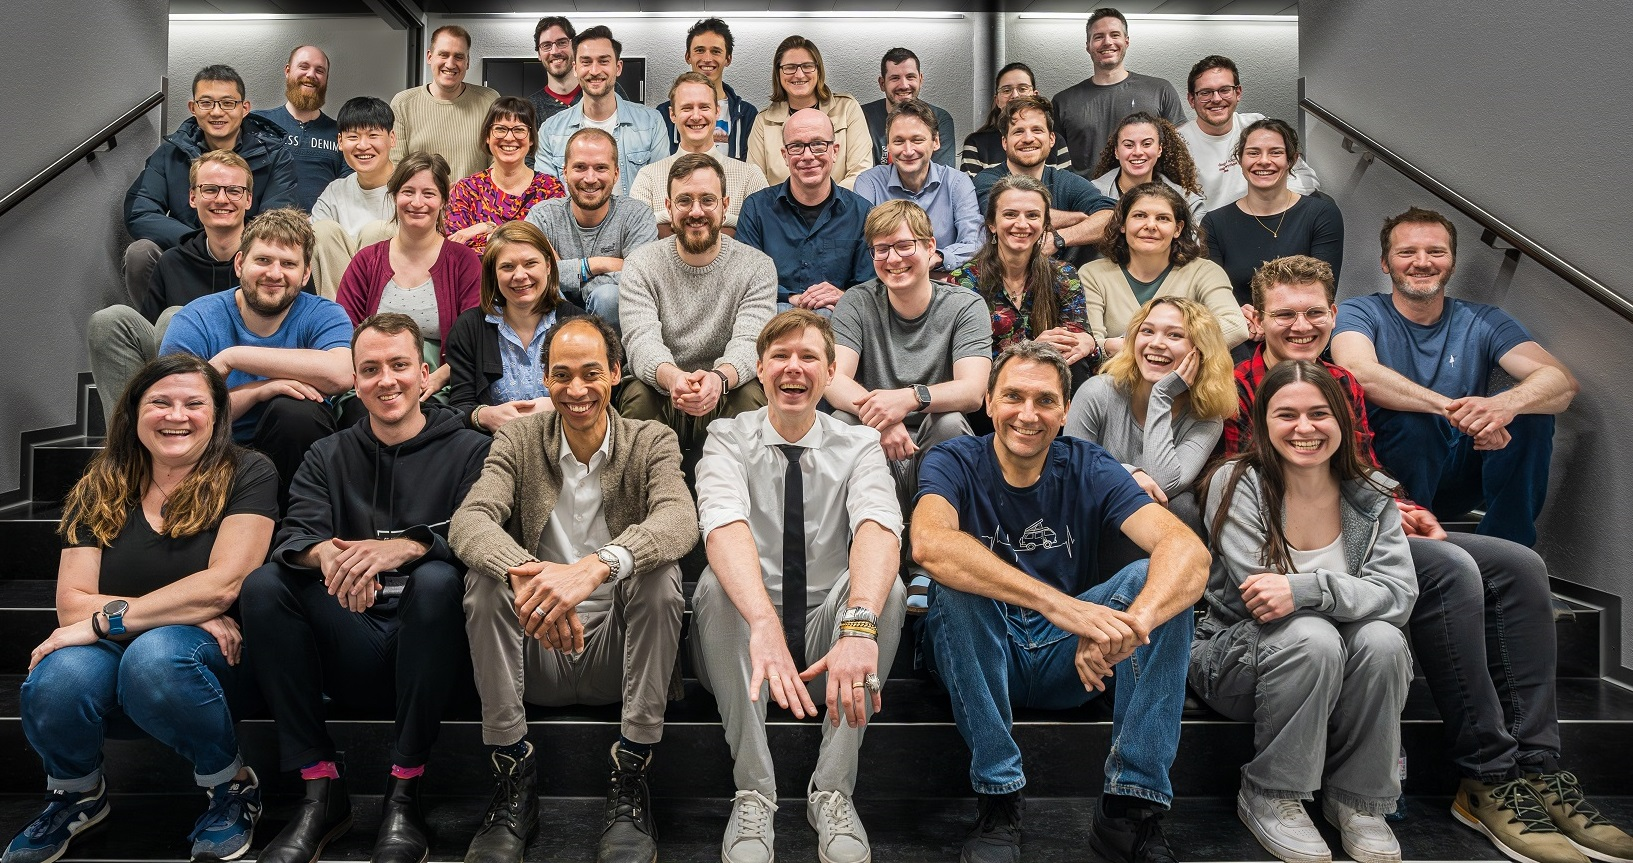
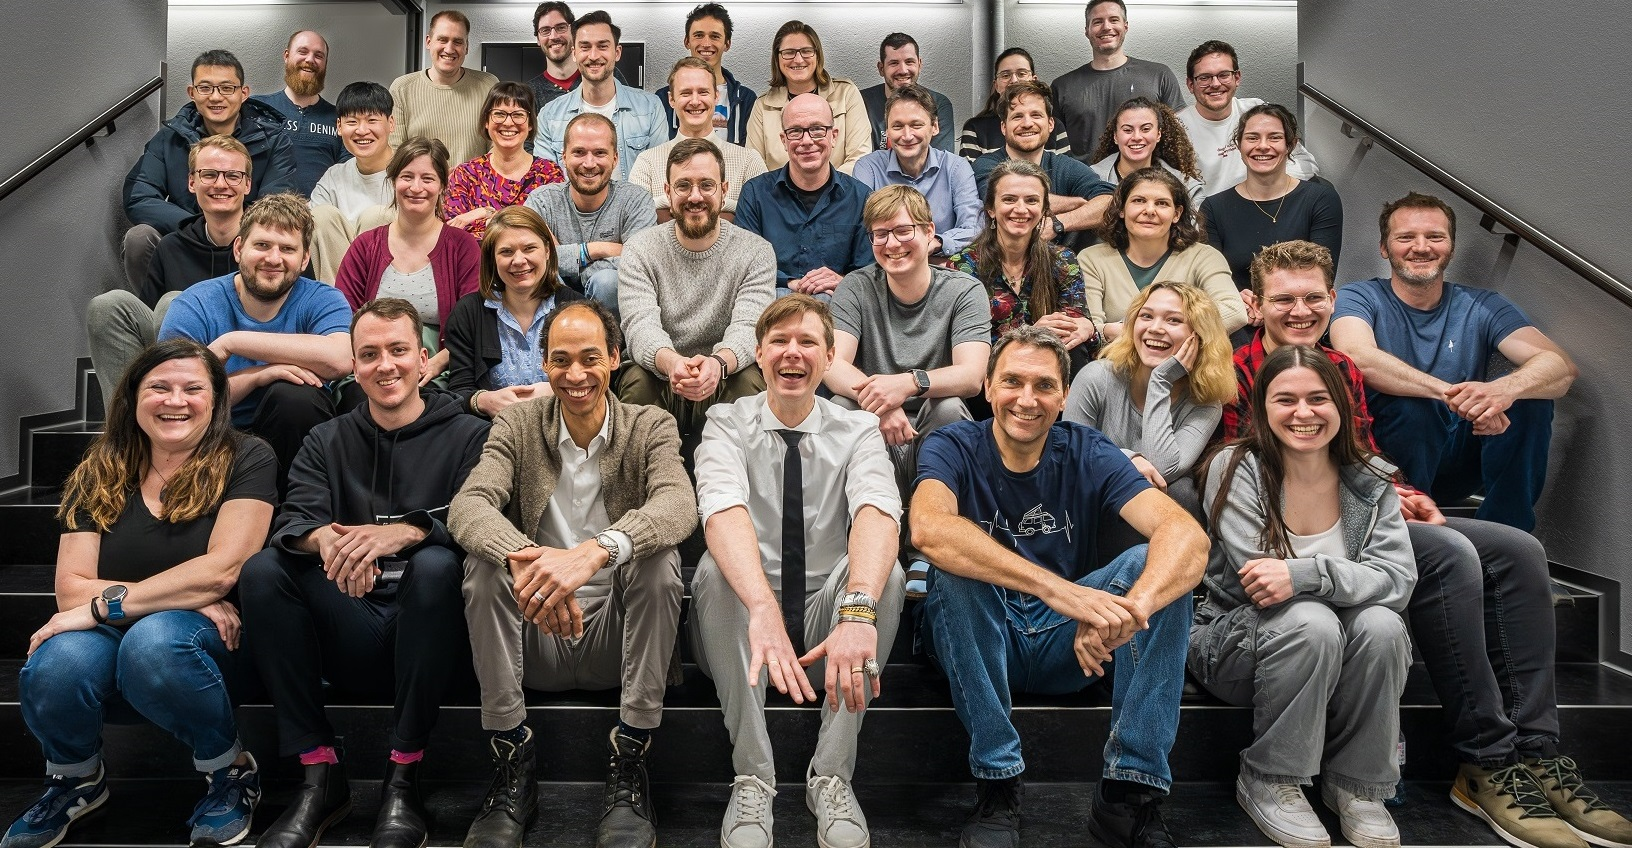
bugfix

diff --git a/research.md b/research.md
@@ -4,7 +4,7 @@ layout: page
 comments: false
 ---
 
-This is the academic website of [Thilo Stadelmann](https://www.zhaw.ch/en/about-us/person/stdm/), professor of **artificial intelligence** and **machine learning** at the [ZHAW](https://www.zhaw.ch/en/university/) [School of Engineering](https://www.zhaw.ch/en/engineering) and holder of the chair of Engineering-Information, director of the [Centre for Artificial Intelligence](https://www.zhaw.ch/en/engineering/institutes-centres/cai/) and head of its [Machine Perception and Cognition Group](https://www.zhaw.ch/en/engineering/institutes-centres/cai/machine-perception-and-cognition-group/). He is also (co-)founder and board member of [AlpineAI AG](https://alpineai.swiss/) and the [ZHAW Datalab](https://www.zhaw.ch/datalab), pioneered [several other organizations](https://www.linkedin.com/in/thilo-stadelmann/), frequently gives [keynote talks](https://premium-speakers.com/en/speaker-presenter/thilo-stadelmann/), and received several [awards](https://www.zhaw.ch/en/about-us/person/stdm/) for his teaching, research, and ecosystem engagement. Views expressed are his own.
+This is the academic website of [Thilo Stadelmann](https://www.zhaw.ch/en/about-us/person/stdm/), professor of **artificial intelligence** and **machine learning** at the [ZHAW](https://www.zhaw.ch/en/university/) [School of Engineering](https://www.zhaw.ch/en/engineering) and holder of the chair of Engineering-Information, director of the [Centre for Artificial Intelligence](https://www.zhaw.ch/en/engineering/institutes-centres/cai/) and head of its [Machine Perception and Cognition group](https://www.zhaw.ch/en/engineering/institutes-centres/cai/machine-perception-and-cognition-group/). He is also (co-)founder and board member of [AlpineAI AG](https://alpineai.swiss/) and the [ZHAW Datalab](https://www.zhaw.ch/datalab), pioneered [several other organizations](https://www.linkedin.com/in/thilo-stadelmann/), frequently gives [keynote talks](https://premium-speakers.com/en/speaker-presenter/thilo-stadelmann/), and received several [awards](https://www.zhaw.ch/en/about-us/person/stdm/) for his teaching, research, and ecosystem engagement. Views expressed are his own.
 
 
 ### TOC
@@ -28,9 +28,9 @@ A personal note: I like kitesurfing, enjoy playing music on stringed instruments
 <a name="group"></a>
 ## The Machine Perception and Cognition group
 
-[<img alt="The ZHAW Centre for AI members as of March 2024" src="http://stdm.github.io/images/CAI-2024.jpg"/>](http://stdm.github.io/images/CAI-2024.jpg)
+<img alt="The ZHAW Centre for AI members as of March 2024" src="http://stdm.github.io/images/CAI-2024.jpg"/>
 
-The [Machine Perception and Cognition Group](https://www.zhaw.ch/en/engineering/institutes-centres/cai/machine-perception-and-cognition-group/) performs project-based research in **representation learning** for **pattern recognition**, working on a wide variety of tasks on image, audio or generally "signal" data. As a group, we focus on **deep learning** methodology, inspired by biological learning. Each task that we study has its own learning target (e.g., detection, classification, clustering, segmentation, novelty detection, control) and use case (e.g., **predictive maintenance**, **speaker diarization**  for multimedia indexing, **document analysis**, **optical music recognition**, **computer vision** for industrial quality control, **automated machine learning**, **deep reinforcement learning** for automated game play or building control), which in turn sheds light on different aspects of the learning process. We also engage in interdisciplinary work on the ethical and societal aspects of AI.
+The [Machine Perception and Cognition group](https://www.zhaw.ch/en/engineering/institutes-centres/cai/machine-perception-and-cognition-group/) performs project-based research in **representation learning** for **pattern recognition**, working on a wide variety of tasks on image, audio or generally "signal" data. As a group, we focus on **deep learning** methodology, inspired by biological learning. Each task that we study has its own learning target (e.g., detection, classification, clustering, segmentation, novelty detection, control) and use case (e.g., **predictive maintenance**, **speaker diarization**  for multimedia indexing, **document analysis**, **optical music recognition**, **computer vision** for industrial quality control, **automated machine learning**, **deep reinforcement learning** for automated game play or building control), which in turn sheds light on different aspects of the learning process. We also engage in interdisciplinary work on the ethical and societal aspects of AI.
 
 The group has very diverse backgrounds, which helps us complement each other's skills.
 
@@ -61,11 +61,11 @@ The group has very diverse backgrounds, which helps us complement each other's s
   <li> <a href="https://www.linkedin.com/in/sydney-nguyen-117987180/">Sydney M. Nguyen</a>, M.Sc. student 2022-2024, B.Sc. in computer science (ZHAW) <br>&rarr; Solution Engineer Data & AI @ mesoneer</li>
   <li> <a href="https://www.linkedin.com/in/sebastian-salzmann-8214b911b">Sebastian Salzmann</a>, M.Sc. student 2021-2024, B.Sc. biology (ETH) & M.Sc. molecular health sciences (ETH) <br>&rarr; Scientific IT @ EAWAG</li>
   <li> <a href="https://www.linkedin.com/in/paul-l-821892247/">Paul Luley</a>, research assistent 2022-2023, B.Sc. biomedical engineering (Technikum Vienna) <br>&rarr; Data Science Researcher @ Julius Bär</li>
-  <li> <a href="https://scholar.google.com/citations?user=ZU1fTMYAAAAJ&hl=en">Dr. Ricardo Chavarriaga</a>, B.Sc. electronics engineering (Pontificia Universidad Javeriana, Columbia), graduate school in computer/communication/information science (EPFL), PhD neuroscience (EPFL), Postdoc neuroscience/brain-computer interfaces (EPFL & IDIAP), senior researcher 2019-2023 <br>&rarr; Head of Responsible AI Innovation Group @ ZHAW CAI</li>
+  <li> <a href="https://scholar.google.com/citations?user=ZU1fTMYAAAAJ&hl=en">Dr. Ricardo Chavarriaga</a>, B.Sc. electronics engineering (Pontificia Universidad Javeriana, Columbia), graduate school in computer/communication/information science (EPFL), PhD neuroscience (EPFL), Postdoc neuroscience/brain-computer interfaces (EPFL & IDIAP), senior researcher 2019-2023 <br>&rarr; Head of Responsible AI Innovation group @ ZHAW CAI</li>
   <li> <a href="https://www.zhaw.ch/en/about-us/person/amir/">Mohammadreza Amirian</a>, B.Sc. (U. Shiraz) & M.Sc. (U. Ulm) in electrical engineering, PhD 2017-2023 in conjunction with [Friedhelm Schwenker</a>https://www.uni-ulm.de/in/neuroinformatik/institut/hidden/f-schwenker/) of Ulm University / Germany <br>&rarr; Deep learning and computer vision researcher @ HES-SO Valais-Wallis</li>
   <li> <a href="https://www.linkedin.com/in/adhiraj-ghosh/">Adhiraj Ghosh</a>, B.Tech. (Manipal Institute of Technology), research intern 2021/22 (ZHAW) <br>&rarr; M.Sc. student @ Tübingen University</li>
   <li> <a href="https://www.zhaw.ch/en/about-us/person/lehl/">Claude Olivier Lehmann</a>, M.Sc. and B.Sc. (ZHAW) <br>&rarr; PhD student with Prof. Kurt Stockinger @ ZHAW InIT</li>
-  <li> <a href="http://www.fp-schilling.de">Dr. Frank-Peter Schilling</a> Diplom & PhD (U. Heidelberg) in physics, PostDoc at CERN <br>&rarr; Head of Intelligent Vision Systems Group @ ZHAW CAI</li>
+  <li> <a href="http://www.fp-schilling.de">Dr. Frank-Peter Schilling</a> Diplom & PhD (U. Heidelberg) in physics, PostDoc at CERN <br>&rarr; Head of Intelligent Vision Systems group @ ZHAW CAI</li>
   <li> <a href="https://scholar.google.de/citations?user=5cpeK3MAAAAJ&hl=en">Dr. Javier Montoya</a>, B.Sc. computer engineering (UCSP, Arequipa, Peru), M.Sc. computer science (Unicamp, Sao Paulo, Brazil), M.Sc. computer science (ENSIMAG, Grenoble, France), PhD computer vision and machine learning (ETHZ) <br>&rarr; Senior lecturer of computer science @ Lucerne University of Applied Sciences</li>
   <li> Stefan Huschauer: B.Sc. computer science (ETH & ZHAW), M.Sc. (ZHAW) <br>&rarr; Noimos, an AXA insuretech company</li>
   <li> <a href="https://ba-pub.engineering.zhaw.ch/WebPublication/Flyer.pdf?version=Bachelorarbeit2018&code=BA18_wyrs_3&language=de">Daniel Neururer</a>, B.Sc. in systems engineering (ZHAW), M.Sc. 2020 (ZHAW) <br>&rarr; Software Engineer @ mcs software AG</li>
@@ -84,7 +84,7 @@ The group has very diverse backgrounds, which helps us complement each other's s
 <a name="work"></a>
 ## Research examples
 
-<img alt="Neural network architecture to detect anomalies in injection molding processes" src="http://stdm.github.io/images/sds2024-architecture.jpg"/>
+<img alt="The Artificial Mental Rotation snap-on architecture for 2D in-plane rotation correction" src="http://stdm.github.io/images/architecture.jpg"/>
 
 <a name="robust"></a>
 <details>
